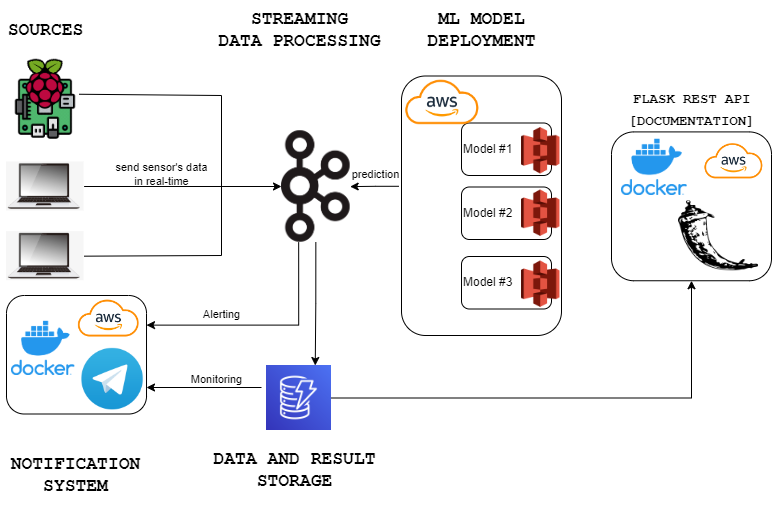
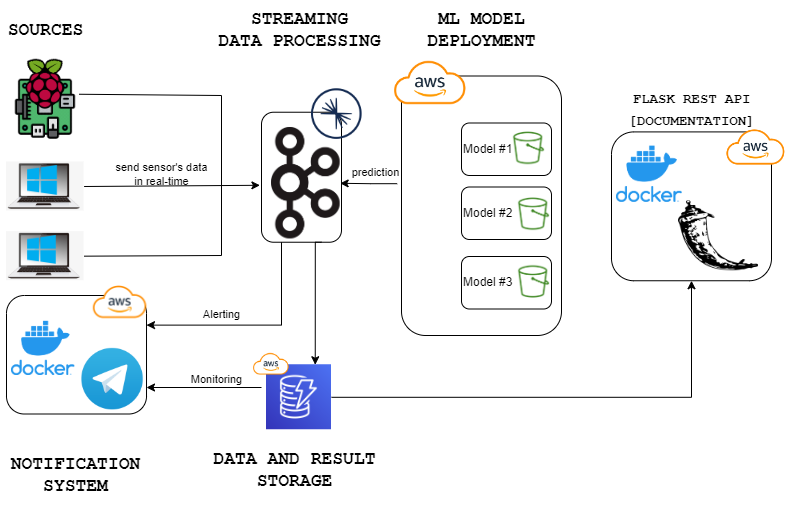
doc: add model README.md + add images

diff --git a/model/README.md b/model/README.md
@@ -1,1 +1,47 @@
-# ML Modeling
+# 🤖 ML Model
+
+##  🏋♂ Model Training
+
+### 📈Model type
+
+>We want to predict if the machine is going to need a technical intervention. Thus we need classification algorithm. We opted for logistic regression.
+
+
+### 📈 Data source
+
+| Source       | Description                                                          |
+|--------------|----------------------------------------------------------------------|
+| Local data   | Collected from computer and store in csv file                        |
+| Data from DB | Retrieved from the database after and after being comsumed by kafka  |
+
+### 📈Data augmentation
+
+> Our target variable has 2 values either 0 or 1
+With 1 being "no technical intervention needed" and 0 being "Technical intervention needed
+Since the computer will not be able to send data when it is down, the rows of 0 are invented by us. In fact we took edge values and generated around them
+
+
+### 📈 Model training
+
+> The training of models is triggered manually by the user. The process is simple and straight forward.
+The result is stored in bin file via the pickle model.
+
+
+## Model deployment and prediction
+
+### 🪣 S3 bucket
+
+> This is where we store our trained models.
+We enable versioning to replace the models whenever needed while keeping  track of previous version
+
+
+### 💼 Use case
+
+> The model is called by the kafka consumer whenever new stream of data comes in 
+The result of prediciton is sent to the user via telegram alert
+
+## Packages 
+
+- Pandas
+- Sickit-learn
+- Pickle

diff --git a/README.md b/README.md
@@ -15,6 +15,9 @@ Architecture of the system:
 
 ![Architecture of the Streaming Monitoring System](image/architecture.png "Architecture")
 
+Deployment architecture of the Flask REST API:
+
+![Deployment architecture of the Streaming Monitoring System](image/deployment.png "Deployment")
 
 ## Structure of the project
 
@@ -54,15 +57,18 @@ Architecture of the system:
     |   └── README.md               : Further explanations on IaC part
     ├── kafkaconsumer               : Kafka Consumer
     |   ├── schemas
+    |   ├── .dockerignore
     |   ├── __init__.py
     |   ├── config.py
     |   ├── consumer.py
+    |   ├── Dockerfile
     |   ├── dynamodb.py
     |   ├── main.py
     |   ├── pc.py
     |   ├── predictor.py
     |   ├── raspberry.py
-    |   └── README.md
+    |   ├── README.md
+    |   └── requirements.txt
     ├── model                        : ML Modeling
     |   ├── data
     |   ├── exported_models

diff --git a/iac/README.md b/iac/README.md
@@ -28,5 +28,10 @@ Balancer DNS name. This is the public URL to access the Web Application in any b
 This whole process is now automatize using GitHub Actions. See the workflow in `.github > workflows > cd_terraform.yaml`
 file. It is triggered in every push/pull request and the deployment and .tfstate updated accordingly.
 
+**Deployment architecture:**
+
+![Deployment architecture of the Streaming Monitoring System](../image/deployment.png "Deployment")
+
+
 #### Useful links:
 https://aws.amazon.com/es/blogs/opensource/deploying-python-flask-microservices-to-aws-using-open-source-tools/

diff --git a/api/README.md b/api/README.md
@@ -12,6 +12,10 @@ This Flask application is `Dockerized` and deployed in `AWS ECS` using also an `
 to be available everywhere. Have a look at `iac` folder `README.md` file for further information about the deployment 
 of the web using `Terraform`.
 
+**Deployment architecture:**
+
+![Deployment architecture of the Streaming Monitoring System](../image/deployment.png "Deployment")
+
 
 ## Table reference of the sensors' measure values
 
